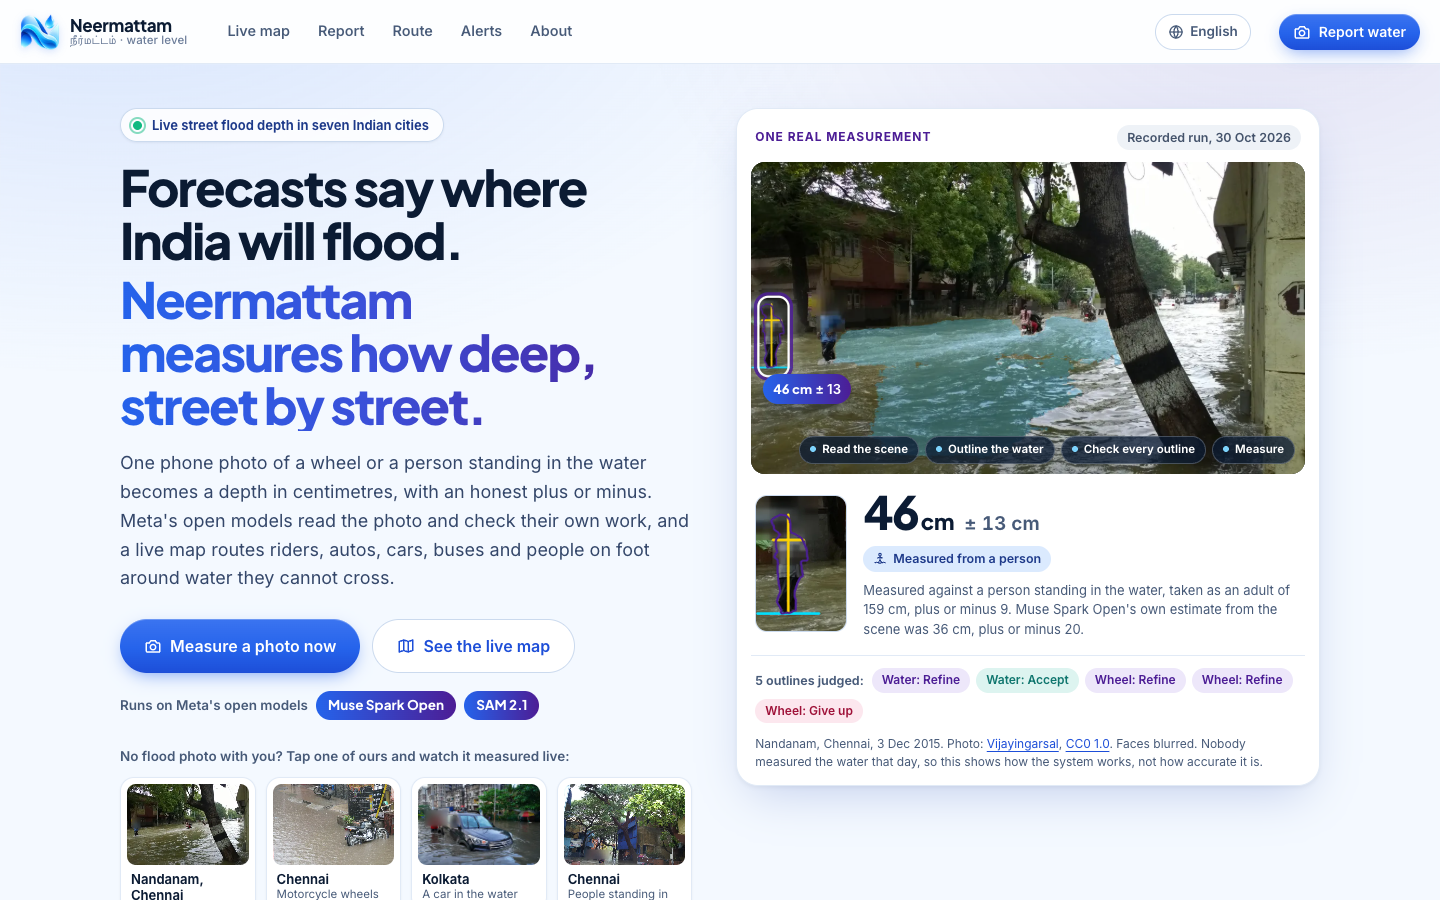
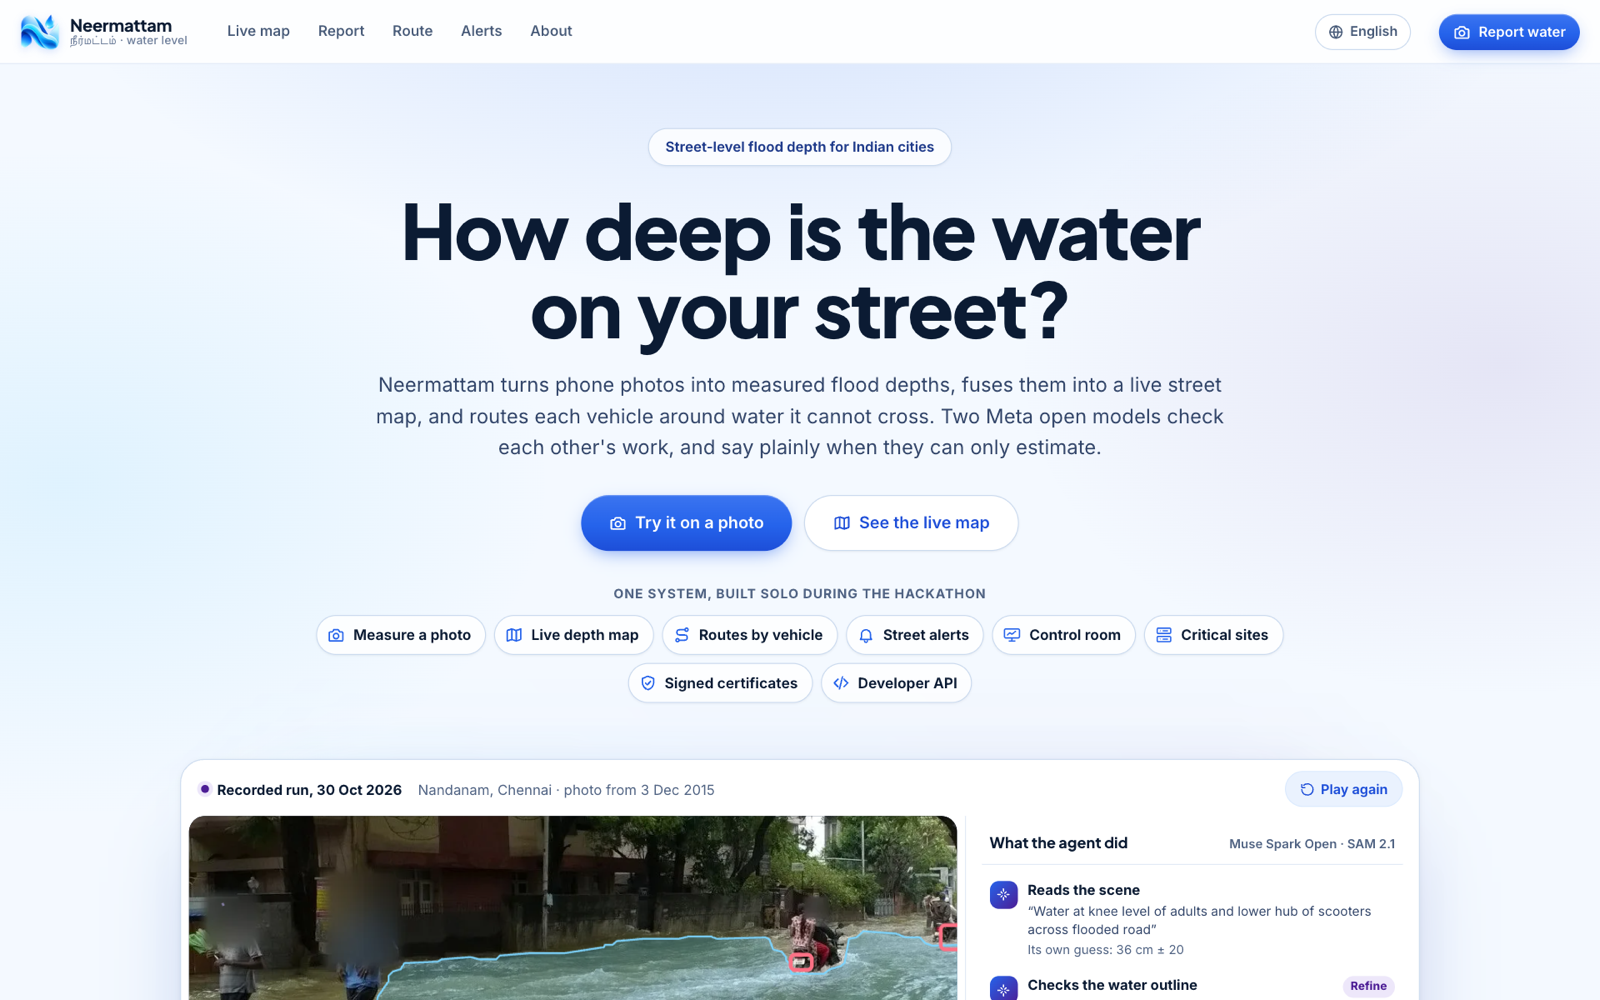
README: show the current landing page

diff --git a/README.md b/README.md
@@ -2,7 +2,7 @@
 
 **Street-level flood depth from one phone photo, measured with a wheel or a person as the ruler, fused into a live map that routes each kind of vehicle around water it cannot cross.**
 
-![Neermattam landing page: the headline "Forecasts say where India will flood. Neermattam measures how deep, street by street." beside one recorded measurement of a flooded Chennai street, 46 cm plus or minus 13, with Muse Spark Open's verdicts on each outline](docs/img/gateway-home.png)
+![Neermattam landing page: the headline "How deep is the water on your street?", links to every part of the system, and a recorded run of a flooded Chennai street measured at 46 cm plus or minus 13 against a person in the water, with Muse Spark Open's verdicts on each outline](docs/img/gateway-home.png)
 
 **Live site:** https://applemacbook6sep2004--neermattam-web-web-serve.us-east.modal.run
 
